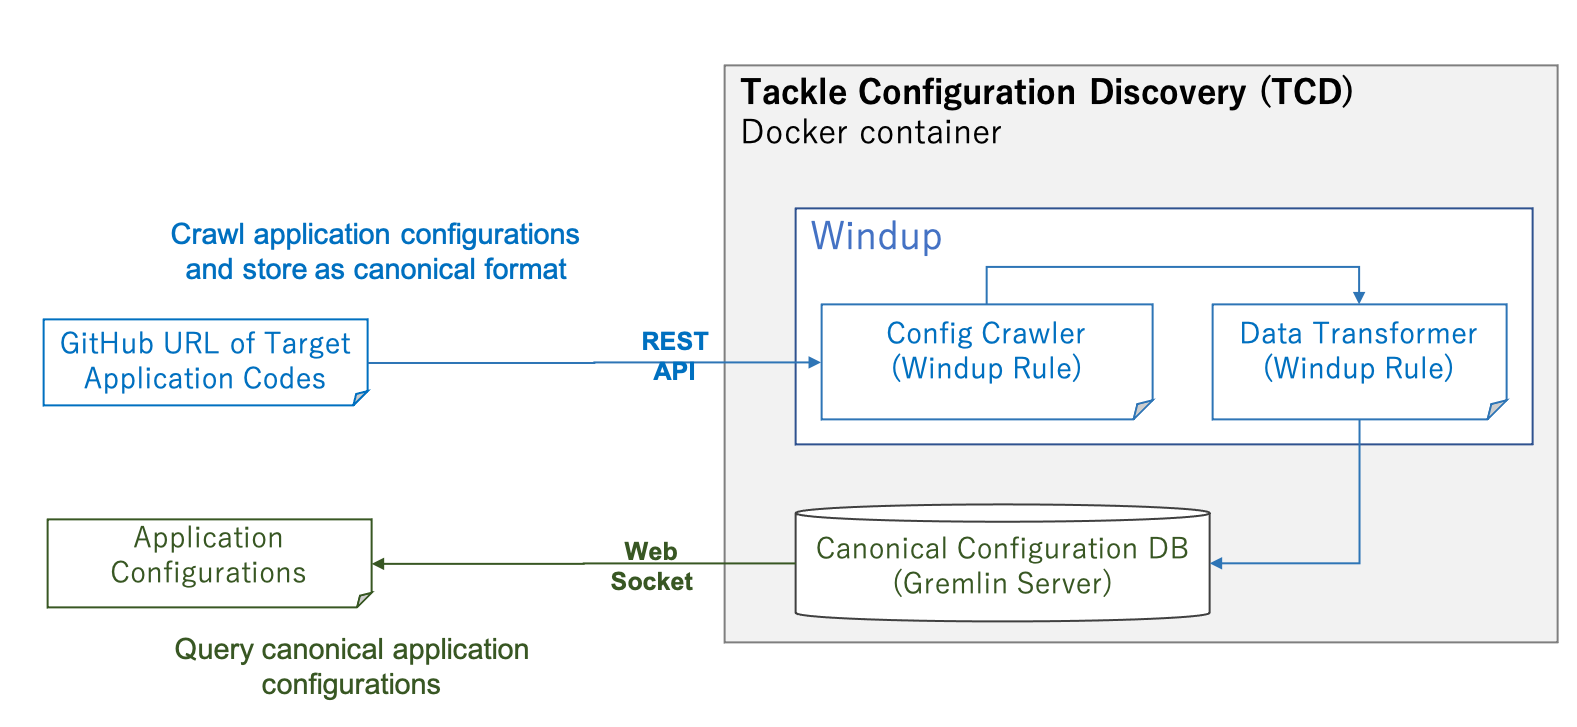
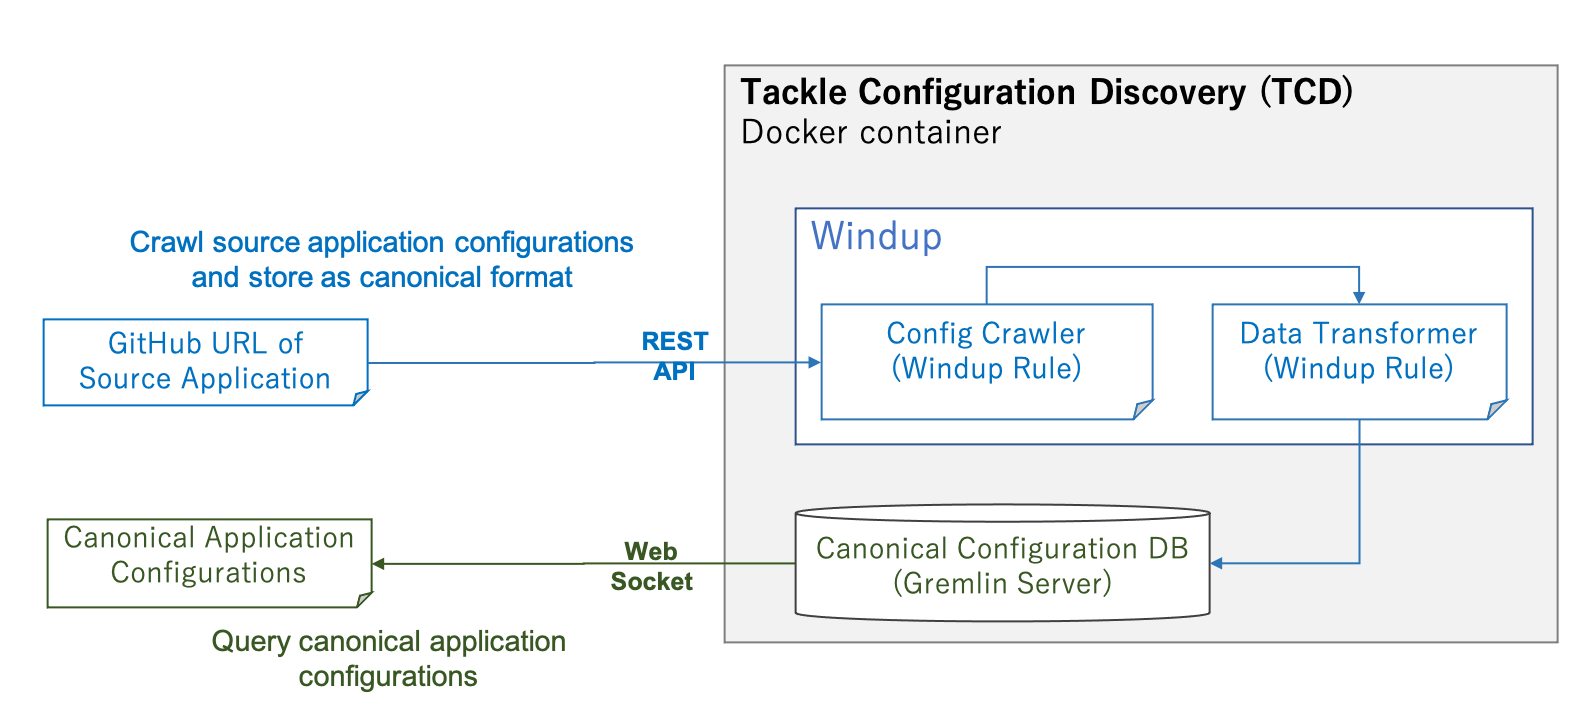
Updated figures

diff --git a/README.md b/README.md
@@ -4,12 +4,12 @@ Tackle Config Discover (TCD) is the application configuration management server.
 
 TCD provides two APIs.
 
-- Crawl (REST API): ```GET http://<host_name>:<port_number>/collect?repo=<github_url>```
+- Crawl (REST API)
   - Download target application source codes from GitHub
   - Extract a set of application configuration data from the codes
   - Store configuration data as canonical format:
   
-- Query (Web Socket): ```ws://<host_name>:<port_number>/gremlin```
+- Query (Web Socket) 
   - Acquire a set of canonical application configuration data.
 
 <img src="./docs/tcd-architecture.png" width=80%>
@@ -29,4 +29,4 @@ $ docker-compose up -d
 
 ## Data model in canonical configuration DB
 
-<img src="./docs/models.png" width=100%>
+<img src="./docs/models.png" width=70%>
